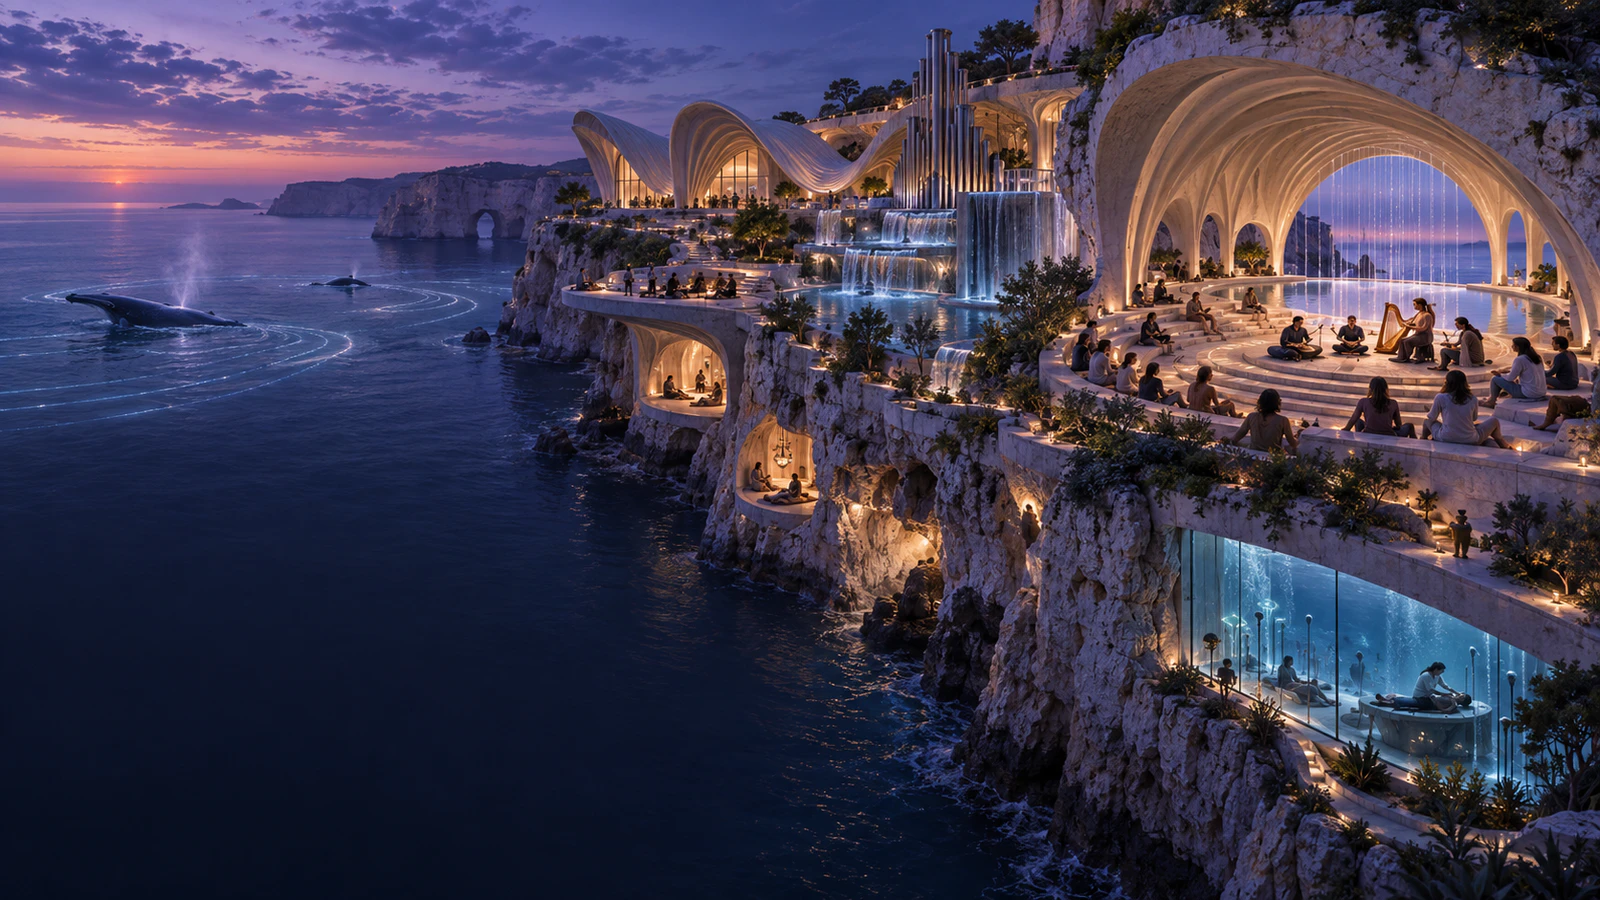
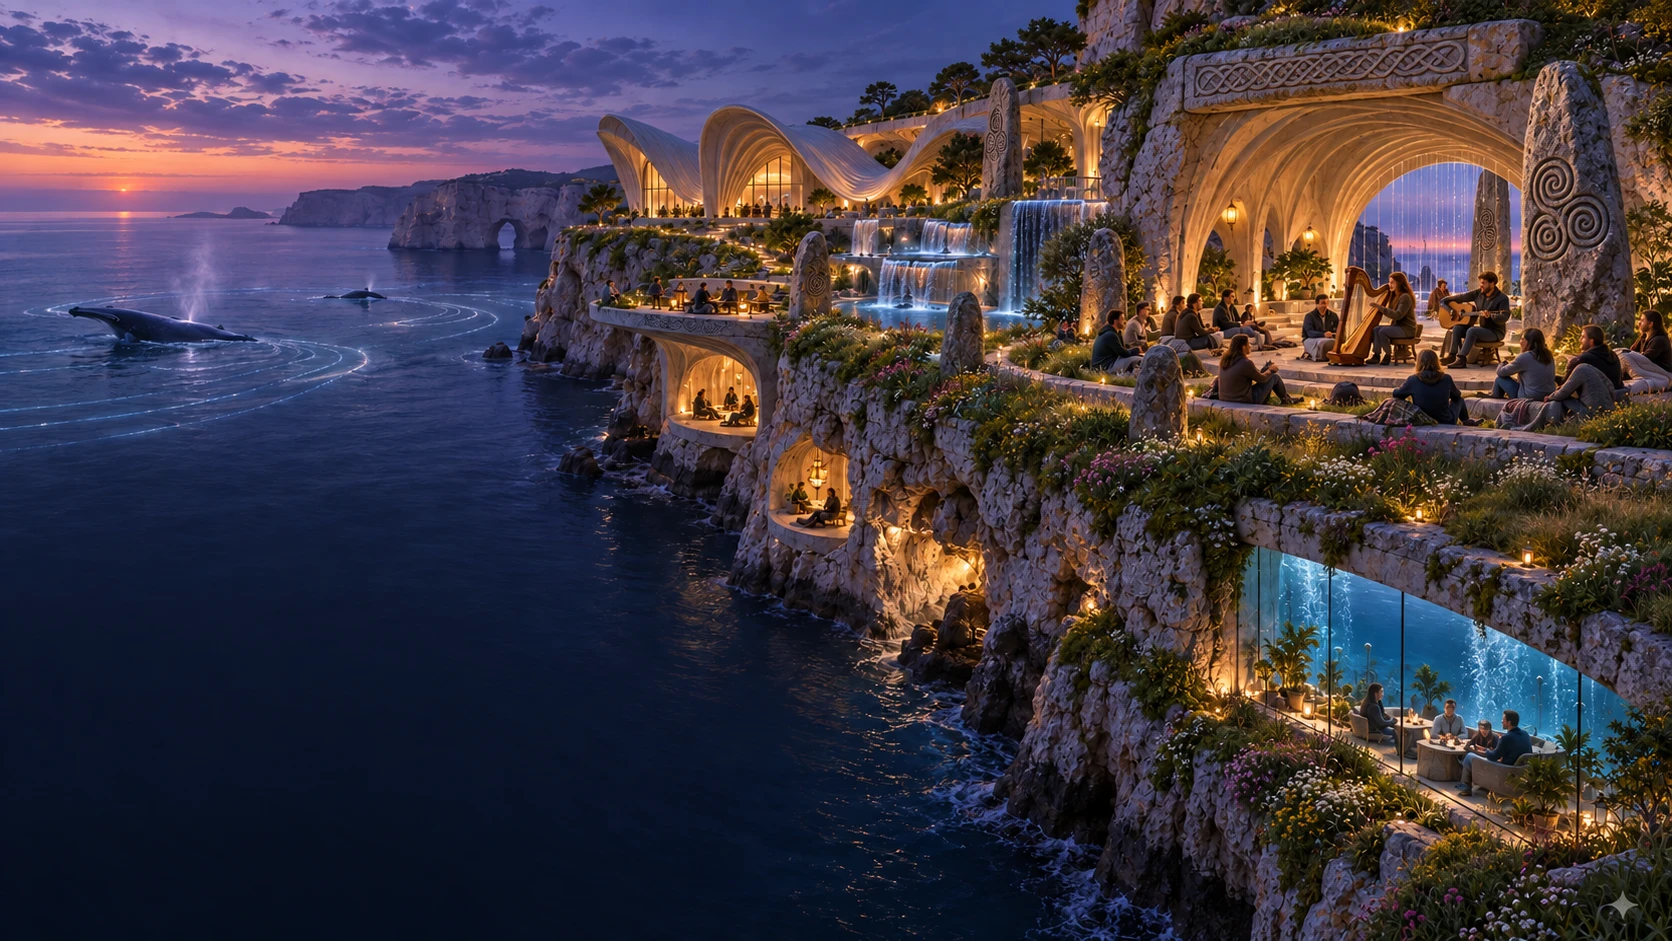
Add Aurora Reach imagery and refine site experiences

diff --git a/index.html b/index.html
@@ -218,6 +218,8 @@
     .place-marker.align-left { flex-direction: row-reverse; }
     .place-marker.align-left::after { left: auto; right: -5px; }
     .place-marker.align-left:hover span { transform: translateX(-3px); }
+    .place-marker.aurora { top: 17%; left: 52%; }
+    .aurora-experience { --experience-rgb: 10, 28, 38; }
     .place-marker.tidal { top: 58%; left: 75%; }
     .place-marker.canopy { top: 61%; left: 51%; }
     .place-marker.sunwell { top: 47%; left: 77%; }
@@ -417,7 +419,7 @@
       .vision-content { padding: 96px 28px 38px; }
       .vision h2 { font-size: 40px; }
       .map-markers { position: relative; inset: auto; display: grid; grid-template-columns: repeat(2, minmax(0, 1fr)); gap: 8px; margin: auto 0 0; padding: 12px 18px 64px; pointer-events: auto; }
-      .place-marker, .place-marker.tidal, .place-marker.canopy, .place-marker.sunwell, .place-marker.meridian, .place-marker.vitruvia, .place-marker.amber, .place-marker.treasury, .place-marker.aster, .place-marker.mantle, .place-marker.harmonic, .place-marker.eden { position: relative; inset: auto; flex: 0 0 auto; gap: 7px; }
+      .place-marker, .place-marker.aurora, .place-marker.tidal, .place-marker.canopy, .place-marker.sunwell, .place-marker.meridian, .place-marker.vitruvia, .place-marker.amber, .place-marker.treasury, .place-marker.aster, .place-marker.mantle, .place-marker.harmonic, .place-marker.eden { position: relative; inset: auto; flex: 0 0 auto; gap: 7px; }
       .place-marker.align-left { flex-direction: row; transform: none; }
       .place-marker.align-left::after { left: -6px; right: auto; }
       .place-marker::before, .place-marker::after { display: none; }
@@ -477,6 +479,7 @@
     </main>
 
       <div class="map-markers" aria-label="Places to explore">
+        <button class="place-marker aurora" type="button" data-open-place="aurora-reach"><span>The Aurora Reach</span></button>
         <button class="place-marker tidal" type="button" data-open-place="tidal-commons"><span>The Tidal Commons</span></button>
         <button class="place-marker canopy" type="button" data-open-place="the-canopy"><span>The Canopy</span></button>
         <button class="place-marker sunwell" type="button" data-open-place="the-sunwell"><span>The Sunwell</span></button>
@@ -745,7 +748,7 @@
     </section>
 
     <section class="place-experience treasury-experience" id="living-treasury" aria-hidden="true" aria-labelledby="treasury-title">
-      <img src="/living-treasury.webp" alt="A monumental conservatory protecting a rare red tropical flower and its cloud-forest ecosystem" />
+      <img src="/living-treasury.webp" alt="A monumental conservatory protecting vibrant clusters of exotic flowers and their cloud-forest ecosystems" />
       <div class="experience-top">
         <button class="experience-back" type="button" aria-label="Return to Earth"><span aria-hidden="true">←</span> Return to Earth</button>
         <span class="experience-number">Biodiversity institute</span>
@@ -765,9 +768,9 @@
         <h3 id="treasury-day-title" tabindex="-1">An ordinary day in 2050</h3>
         <p class="day-intro">Clara protects living masterpieces by understanding the webs of soil, climate, pollinators, and culture that allow them to remain wild.</p>
         <div class="moments">
-          <article class="moment"><time>06:10</time><div><b>The opening</b><p>A vast red flower begins its brief bloom. Clara quiets the gallery while pollinator drones and field biologists observe from beyond its scent boundary.</p></div></article>
-          <article class="moment"><time>12:30</time><div><b>The corridor council</b><p>A habitat model reveals one broken link in the flower’s future. Growers, residents, and land stewards choose a restoration path together.</p></div></article>
-          <article class="moment"><time>20:40</time><div><b>Memory and life</b><p>Its genome and ecology join CivNet and a crystal archive. The record is priceless; the living flower, rooted in relationship, is worth more.</p></div></article>
+          <article class="moment"><time>06:10</time><div><b>The opening</b><p>A cluster of rare orchids and brilliant red blooms opens with the morning light. Clara and the field biologists watch each species welcome its own pollinators.</p></div></article>
+          <article class="moment"><time>12:30</time><div><b>The corridor council</b><p>A habitat model reveals one broken link in the garden’s future. Growers, residents, and land stewards choose a restoration path together.</p></div></article>
+          <article class="moment"><time>20:40</time><div><b>Memory and life</b><p>Their genomes and ecology join CivNet and a crystal archive. The record is priceless; the living garden, rooted in relationship, is worth more.</p></div></article>
         </div>
         <p class="day-note">When objects can be made in abundance, the unrepeatable creations of life become civilization’s greatest treasures.</p>
       </aside>
@@ -832,7 +835,7 @@
     </section>
 
     <section class="place-experience harmonic-experience" id="the-harmonic" aria-hidden="true" aria-labelledby="harmonic-title">
-      <img src="/the-harmonic.webp" alt="A sonic-health arcology carved into sea cliffs with acoustic chambers and hydrophone gardens" />
+      <img src="/the-harmonic.webp" alt="An Irish coastal arcology with acoustic chambers, weathered standing stones, subtle Celtic carvings, and ocean listening gardens" />
       <div class="experience-top">
         <button class="experience-back" type="button" aria-label="Return to Earth"><span aria-hidden="true">←</span> Return to Earth</button>
         <span class="experience-number">Sonic health coast</span>
@@ -840,7 +843,7 @@
       <div class="experience-copy">
         <p class="experience-kicker">Where healing begins with listening</p>
         <h2 id="harmonic-title" tabindex="-1">The<br>Resonant Coast</h2>
-        <p class="experience-summary">A limestone coastal arcology where sound becomes medicine, music becomes civic life, and humanity learns to listen beyond itself.</p>
+        <p class="experience-summary">An Irish limestone coastal arcology where old traditions of music and gathering meet acoustic research, and humanity learns to listen beyond itself.</p>
         <button class="light-button" type="button" data-open-day>Spend a day with Lucian <span aria-hidden="true">→</span></button>
       </div>
       <aside class="day-panel" aria-hidden="true" aria-labelledby="harmonic-day-title">
@@ -854,7 +857,7 @@
         <div class="moments">
           <article class="moment"><time>06:40</time><div><b>The whale line</b><p>Hydrophones carry a migrating pod through the listening garden. An AI ecologist separates engines, weather, and voices without flattening the mystery.</p></div></article>
           <article class="moment"><time>11:15</time><div><b>A personal resonance</b><p>In a sunlit clinic, Lucian composes a precise field of sound and vibration that helps a patient’s nervous system rediscover calm.</p></div></article>
-          <article class="moment"><time>20:30</time><div><b>The public chord</b><p>The cliff amphitheater fills without a stage dividing performer from audience. Tonight, the city plays itself as an instrument.</p></div></article>
+          <article class="moment"><time>20:30</time><div><b>The public chord</b><p>The cliff amphitheater fills without a stage dividing performer from audience. Harp, fiddle, and human voices pass a melody around the gathering, joining the sea’s rhythm.</p></div></article>
         </div>
         <p class="day-note">Here, sound is not background. It is relationship—between body and mind, person and community, humanity and the living sea.</p>
       </aside>
@@ -886,6 +889,35 @@
           <article class="moment"><time>19:30</time><div><b>The long table</b><p>Five generations gather beneath the orchard lights. Longevity matters because affection, curiosity, and unfinished work keep giving time a direction.</p></div></article>
         </div>
         <p class="day-note">A long life is not the promise of forever. It is more health, more beginnings, and more time to become useful to one another.</p>
+      </aside>
+    </section>
+
+    <section class="place-experience aurora-experience" id="aurora-reach" aria-hidden="true" aria-labelledby="aurora-title">
+      <img src="/aurora-reach.webp" alt="Warm timber homes and a sky observatory above an Alaskan fjord beneath the northern lights" />
+      <div class="experience-top">
+        <button class="experience-back" type="button" aria-label="Return to Earth"><span aria-hidden="true">←</span> Return to Earth</button>
+        <span class="experience-number">Alaskan sky and wilderness observatory</span>
+      </div>
+      <div class="experience-copy">
+        <p class="experience-kicker">Where the sky comes close</p>
+        <h2 id="aurora-title" tabindex="-1">The Aurora<br>Reach</h2>
+        <p class="experience-summary">Above an Alaskan fjord, warm homes and a quiet observatory share a vast horizon. Here, studying the northern sky and caring for the wild are part of everyday life.</p>
+        <button class="light-button" type="button" data-open-day>Spend a day with Mara <span aria-hidden="true">→</span></button>
+      </div>
+      <aside class="day-panel" aria-hidden="true" aria-labelledby="aurora-day-title">
+        <button class="day-close" type="button"><span aria-hidden="true">←</span> Back to the reach</button>
+        <div class="person">
+          <img class="person-photo" src="/mara.webp" alt="Portrait of Mara Ellis" />
+          <div><b>Mara Ellis</b><span>Aurora researcher and field engineer · 38</span></div>
+        </div>
+        <h3 id="aurora-day-title" tabindex="-1">An ordinary day in 2050</h3>
+        <p class="day-intro">Mara keeps one eye on the upper atmosphere and the other on the paths, instruments, and neighbors that make a good life possible this far north.</p>
+        <div class="moments">
+          <article class="moment"><time>08:20</time><div><b>The blue hour</b><p>From a warm kitchen, Mara reviews the night’s magnetic readings. Her AI research partner finds a curious pattern; she chooses which ridge instruments to visit.</p></div></article>
+          <article class="moment"><time>13:10</time><div><b>Along the fjord</b><p>A quiet electric boat carries her to a field station. Local stewards guide the route around a resting wildlife colony; a repaired sensor rejoins the shared climate record.</p></div></article>
+          <article class="moment"><time>22:40</time><div><b>A curtain of light</b><p>Neighbors gather under the observatory’s glass roof as green light unfurls above the mountains. Mara shares the day’s discovery, then lets the room fall quiet.</p></div></article>
+        </div>
+        <p class="day-note">Comfort makes room for attention: to the sky, to the land, and to one another.</p>
       </aside>
     </section>
 

diff --git a/vite.config.js b/vite.config.js
@@ -44,6 +44,8 @@ const meridianImage = ${JSON.stringify(meridianImage)};
 const vitruviaImage = ${JSON.stringify(vitruviaImage)};
 const amberArchiveImage = ${JSON.stringify(amberArchiveImage)};
 const newPlaceImages = {
+  '/aurora-reach.webp': ${JSON.stringify(readFileSync('public/aurora-reach.webp').toString('base64'))},
+  '/mara.webp': ${JSON.stringify(readFileSync('public/mara.webp').toString('base64'))},
   '/living-treasury.webp': ${JSON.stringify(livingTreasuryImage)},
   '/aster-academy.webp': ${JSON.stringify(asterAcademyImage)},
   '/mantle-works.webp': ${JSON.stringify(mantleWorksImage)},

diff --git a/README.md b/README.md
@@ -1,6 +1,6 @@
 # Civ Nexus
 
-A research and project-development initiative exploring better ways to live, organize, discover, and build. This interactive 2050 vision presents eleven imagined communities where people, AI, and the living world flourish together.
+A research and project-development initiative exploring better ways to live, organize, discover, and build. This interactive 2050 vision presents twelve imagined communities where people, AI, and the living world flourish together.
 
 Contact: connect@civnexus.com
 
